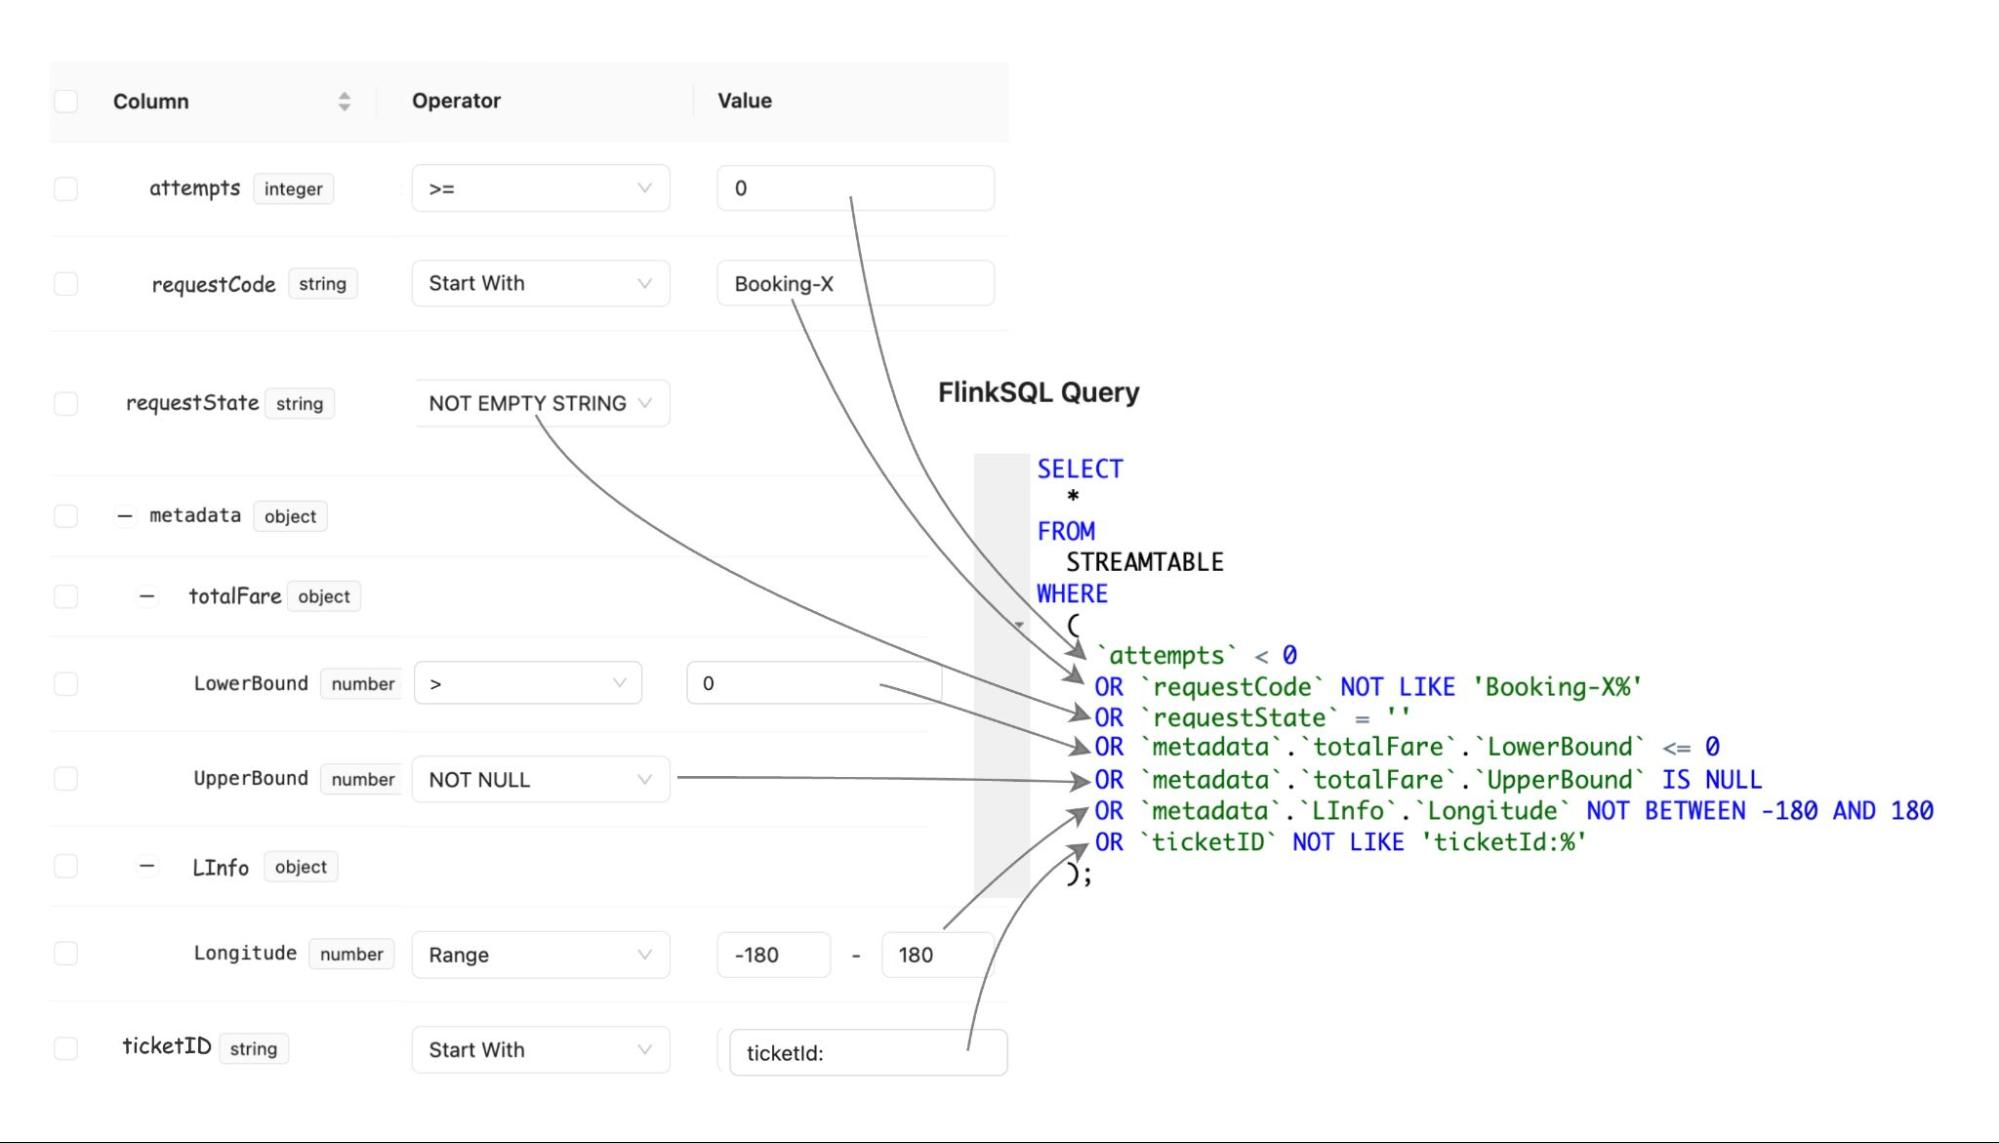
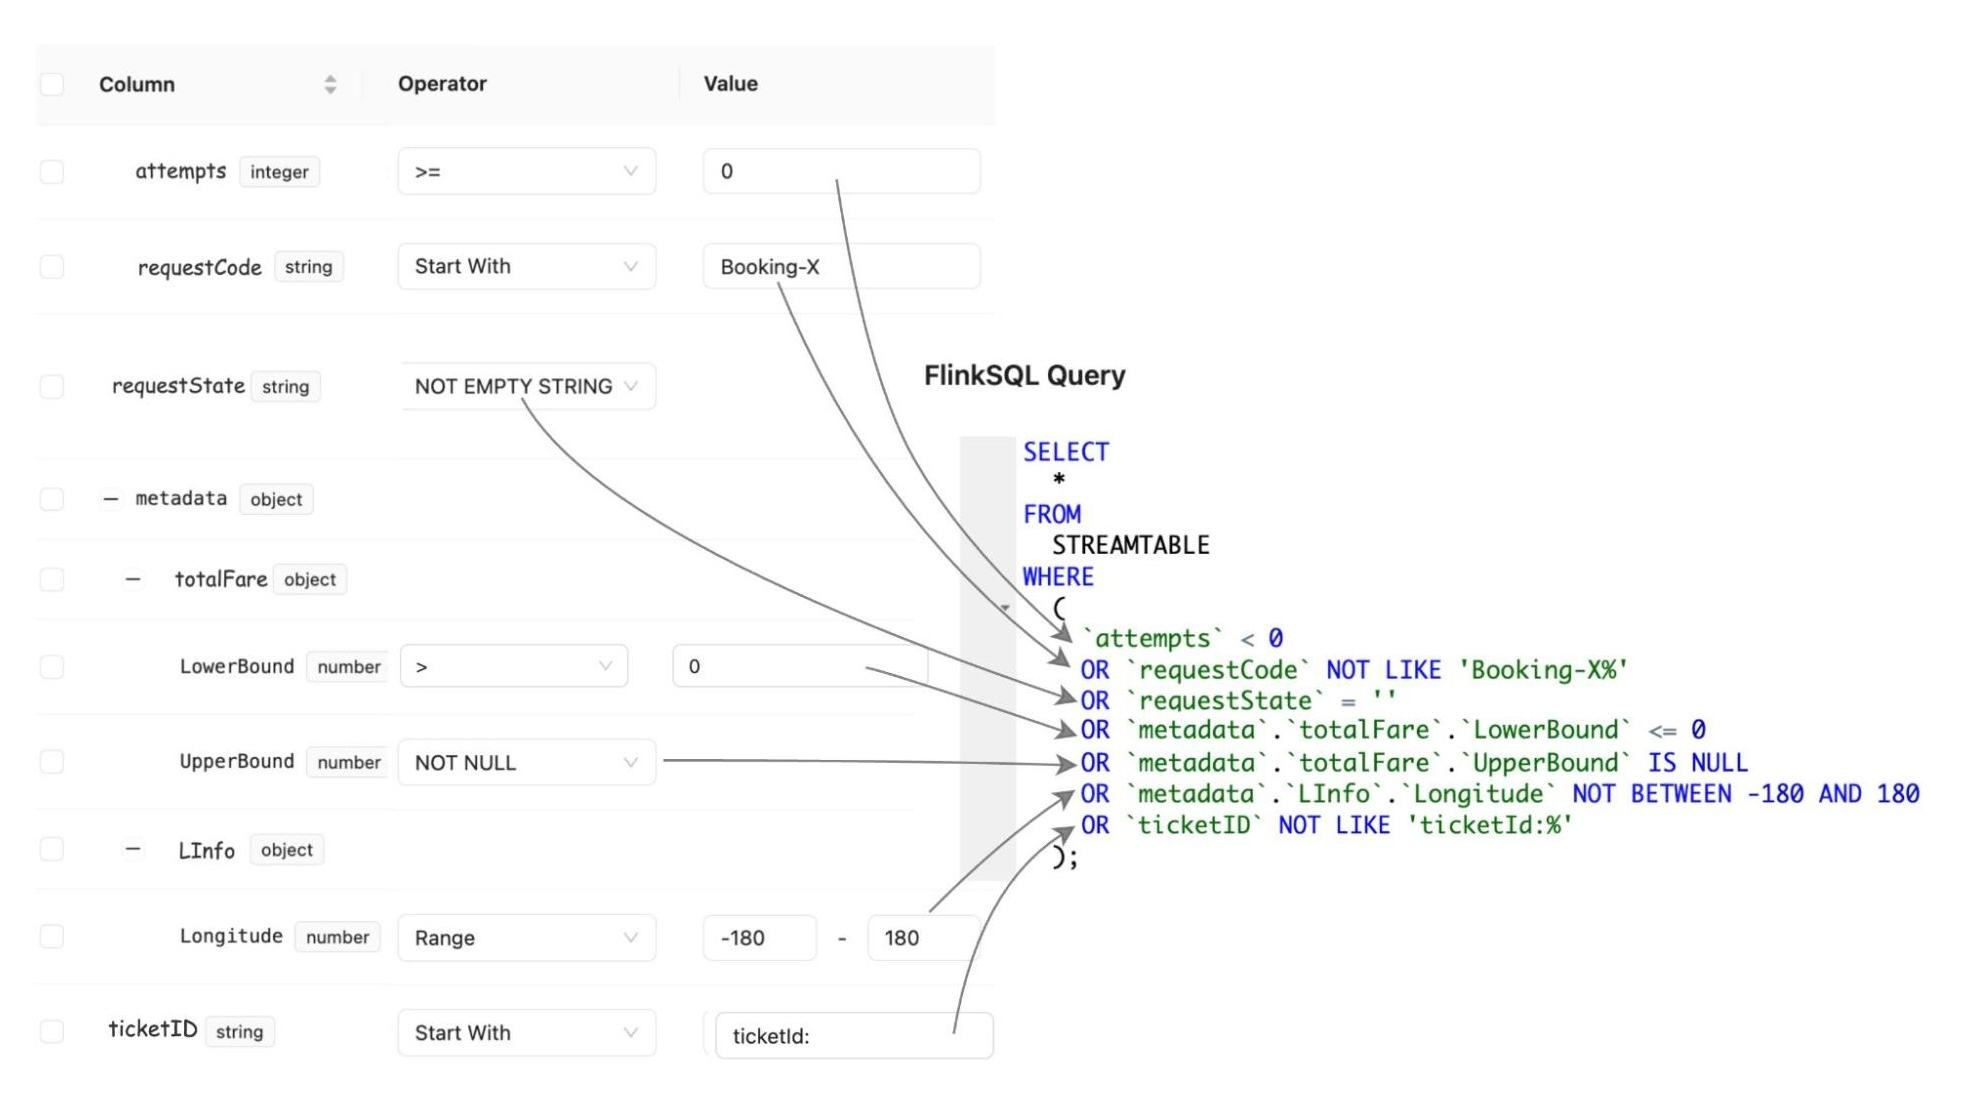
Crop images and update figure captions

diff --git a/_posts/2025-11-26-real-time-data-quality-monitoring.md b/_posts/2025-11-26-real-time-data-quality-monitoring.md
@@ -44,7 +44,7 @@ Our [Coban platform](https://engineering.grab.com/an-elegant-platform) offers a 
 The solution includes three components: *Data Contract Definition, Test Execution & Data Quality Issue Identification, and Result Observability as shown in the architecture diagram in figure 1*. All mentions of “Flow" from here onwards refer to the corresponding processes illustrated in figure 1.
 
 <div class="post-image-section"><figure>
-  <img src="/img/real-time-data-quality-monitoring/coban-architecture.jpg" alt="" style="width:70%"><figcaption align="middle">Figure 1. Real-time Kafka Stream Data Quality Monitoring Architecture diagram. 1. Genchi is a data quality observability platform at Grab that performs data quality checks. 2. CobanUI The Coban Kafka Stream Portal https://engineering.grab.com/an-elegant-platform
+  <img src="/img/real-time-data-quality-monitoring/coban-architecture.jpg" alt="" style="width:100%"><figcaption align="middle">Figure 1. Real-time Kafka Stream Data Quality Monitoring Architecture diagram.
 </figcaption>
   </figure>
 </div>
@@ -60,7 +60,7 @@ The Coban Platform streamlines the process of defining Kafka stream data contrac
 - **LLM-Based Semantic Test Rules Recommendation**: Defining dozens if not hundreds of field-specific test rules can overwhelm users. To simplify this process, the Coban Platform uses LLM-based recommendations to predict semantic test rules using provided Kafka stream schemas and anonymized sample data (Flow 1.4). This feature helps users set up semantic rules efficiently, as demonstrated in the sample UI in figure 2.
 
 <div class="post-image-section"><figure>
-  <img src="/img/real-time-data-quality-monitoring/sample-ui.png" alt="" style="width:70%"><figcaption align="middle">Figure 2. Sample UI showcasing LLM-based Kafka stream schema field-level semantic test rules. Note that the data shown is entirely fictional.
+  <img src="/img/real-time-data-quality-monitoring/sample-ui.png" alt="" style="width:100%"><figcaption align="middle">Figure 2. Sample UI showcasing LLM-based Kafka stream schema field-level semantic test rules. Note that the data shown is entirely fictional.
 </figcaption>
   </figure>
 </div>
@@ -75,7 +75,7 @@ Once defined, the Coban Platform's transformation engine converts the data contr
 - **Kafka Stream Semantic Test Rules**: Transforms human-readable semantic test rules into an inverse SQL query to capture the data that violates the defined rules.
 
 <div class="post-image-section"><figure>
-  <img src="/img/real-time-data-quality-monitoring/semantic-test-rules.jpg" alt="" style="width:70%"><figcaption align="middle">Figure 3. Illustration of semantic test rules being converted from human-readable formats into inverse SQL queries.
+  <img src="/img/real-time-data-quality-monitoring/semantic-test-rules.jpg" alt="" style="width:100%"><figcaption align="middle">Figure 3. Illustration of semantic test rules being converted from human-readable formats into inverse SQL queries.
 </figcaption>
   </figure>
 </div>
@@ -100,7 +100,7 @@ Grab's in-house data quality observability platform, Genchi, consumes problemati
 Genchi sends Slack notifications (Flow 3.5) to stream owners specified in the data contract observability metadata. These notifications include detailed information about stream issues, such as links to sample data in Coban UI, observed windows, counts of bad records, and other relevant details.
 
 <div class="post-image-section"><figure>
-  <img src="/img/real-time-data-quality-monitoring/slack-notification.png" alt="" style="width:70%"><figcaption align="middle">Figure 4. Sample Slack notifications
+  <img src="/img/real-time-data-quality-monitoring/slack-notification.png" alt="" style="width:80%"><figcaption align="middle">Figure 4. Sample Slack notifications
 </figcaption>
   </figure>
 </div>
@@ -110,7 +110,7 @@ Genchi sends Slack notifications (Flow 3.5) to stream owners specified in the da
 Users can access the Coban UI (Flow 3.4), displaying Kafka stream test rules and sample bad records, highlighting fields and values that violate rules.
 
 <div class="post-image-section"><figure>
-  <img src="/img/real-time-data-quality-monitoring/sample-test-result.jpg" alt="" style="width:70%"><figcaption align="middle">Figure 5. In this Sample Test Result, the highlighted fields indicate violations of the semantic test rules.
+  <img src="/img/real-time-data-quality-monitoring/sample-test-result.jpg" alt="" style="width:100%"><figcaption align="middle">Figure 5. In this Sample Test Result, the highlighted fields indicate violations of the semantic test rules.
 </figcaption>
   </figure>
 </div>
